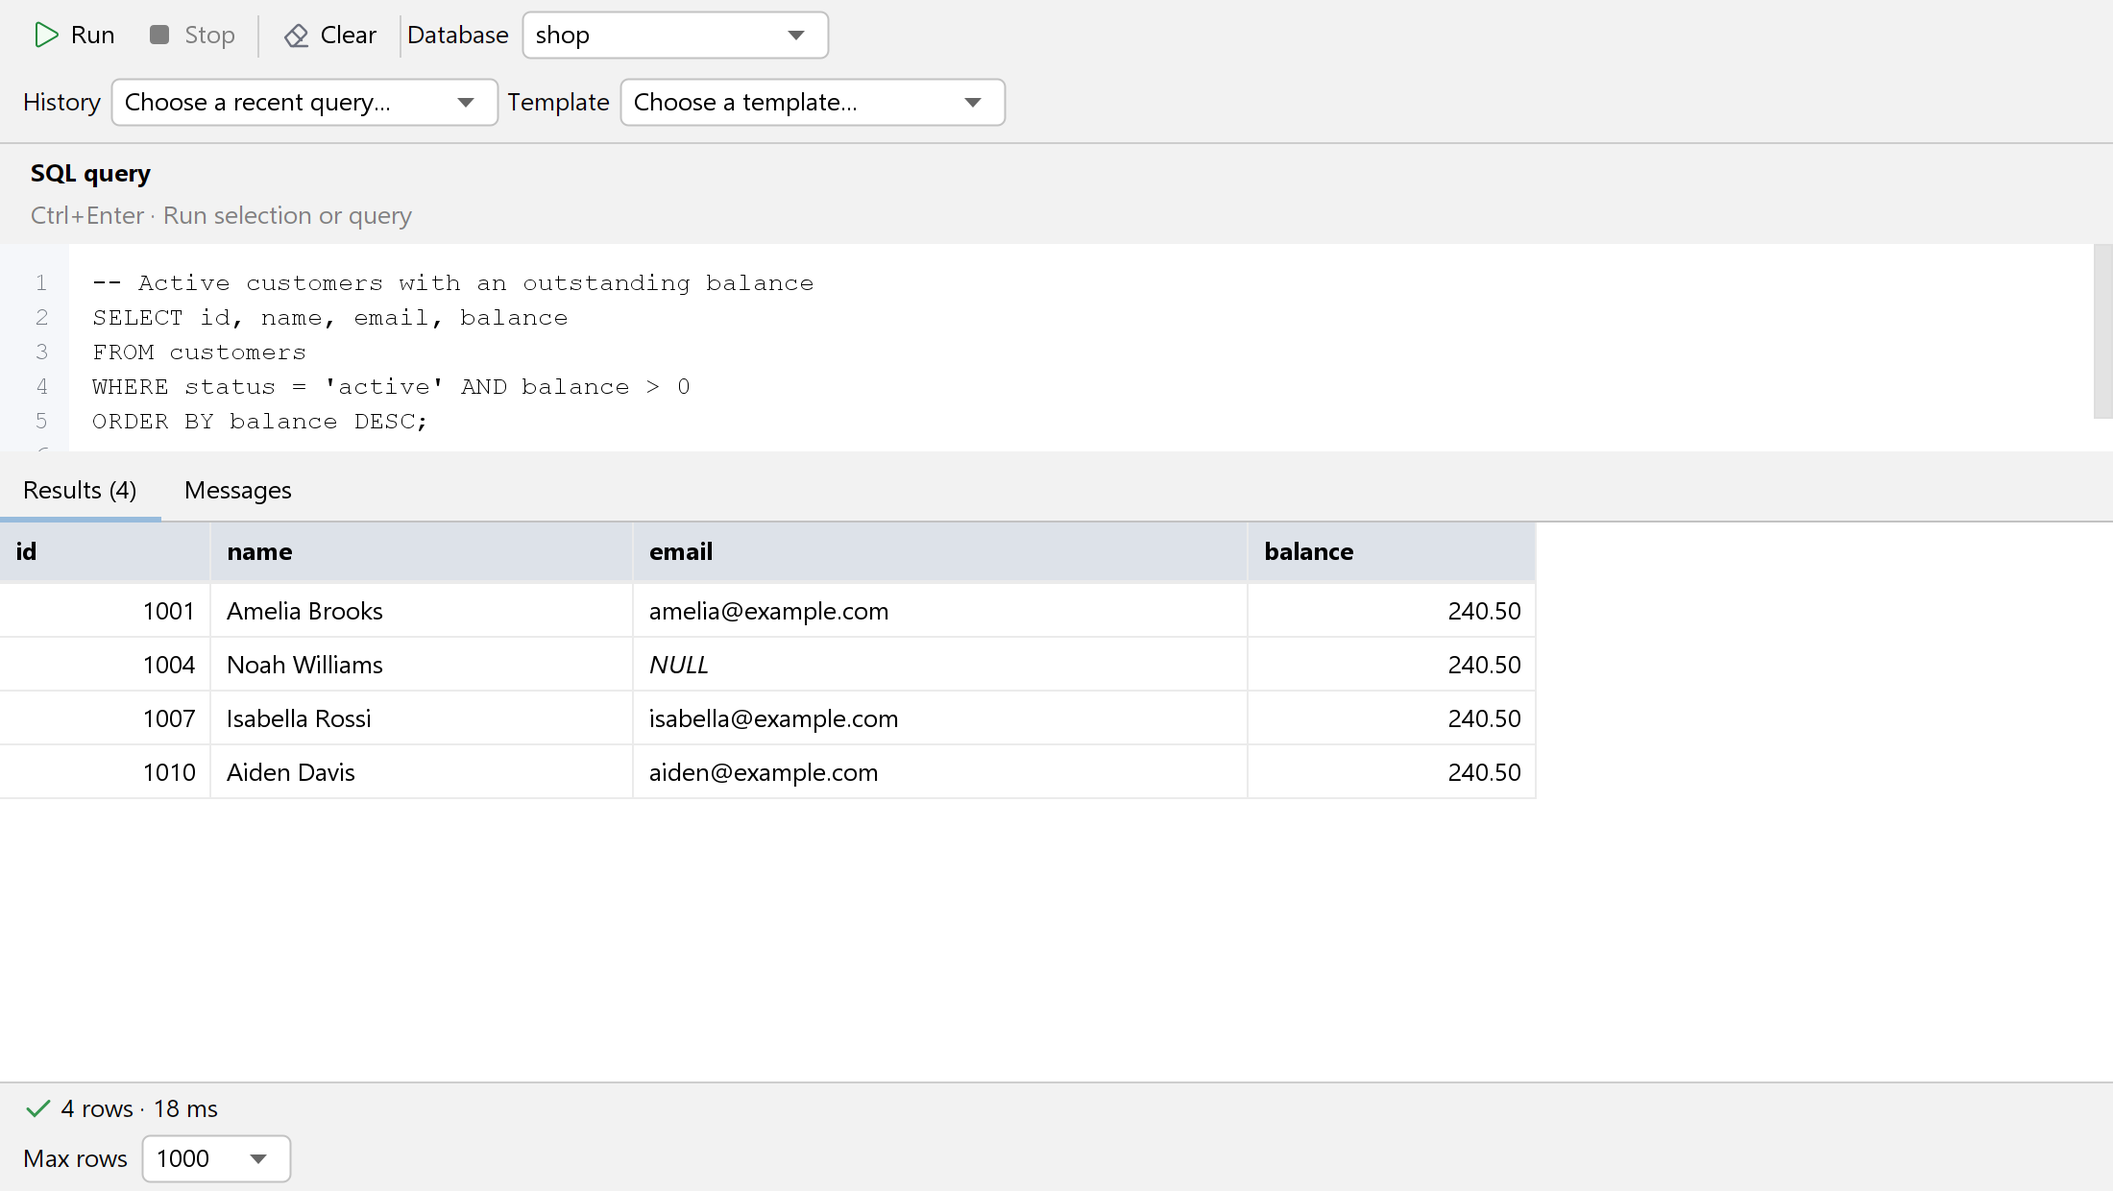
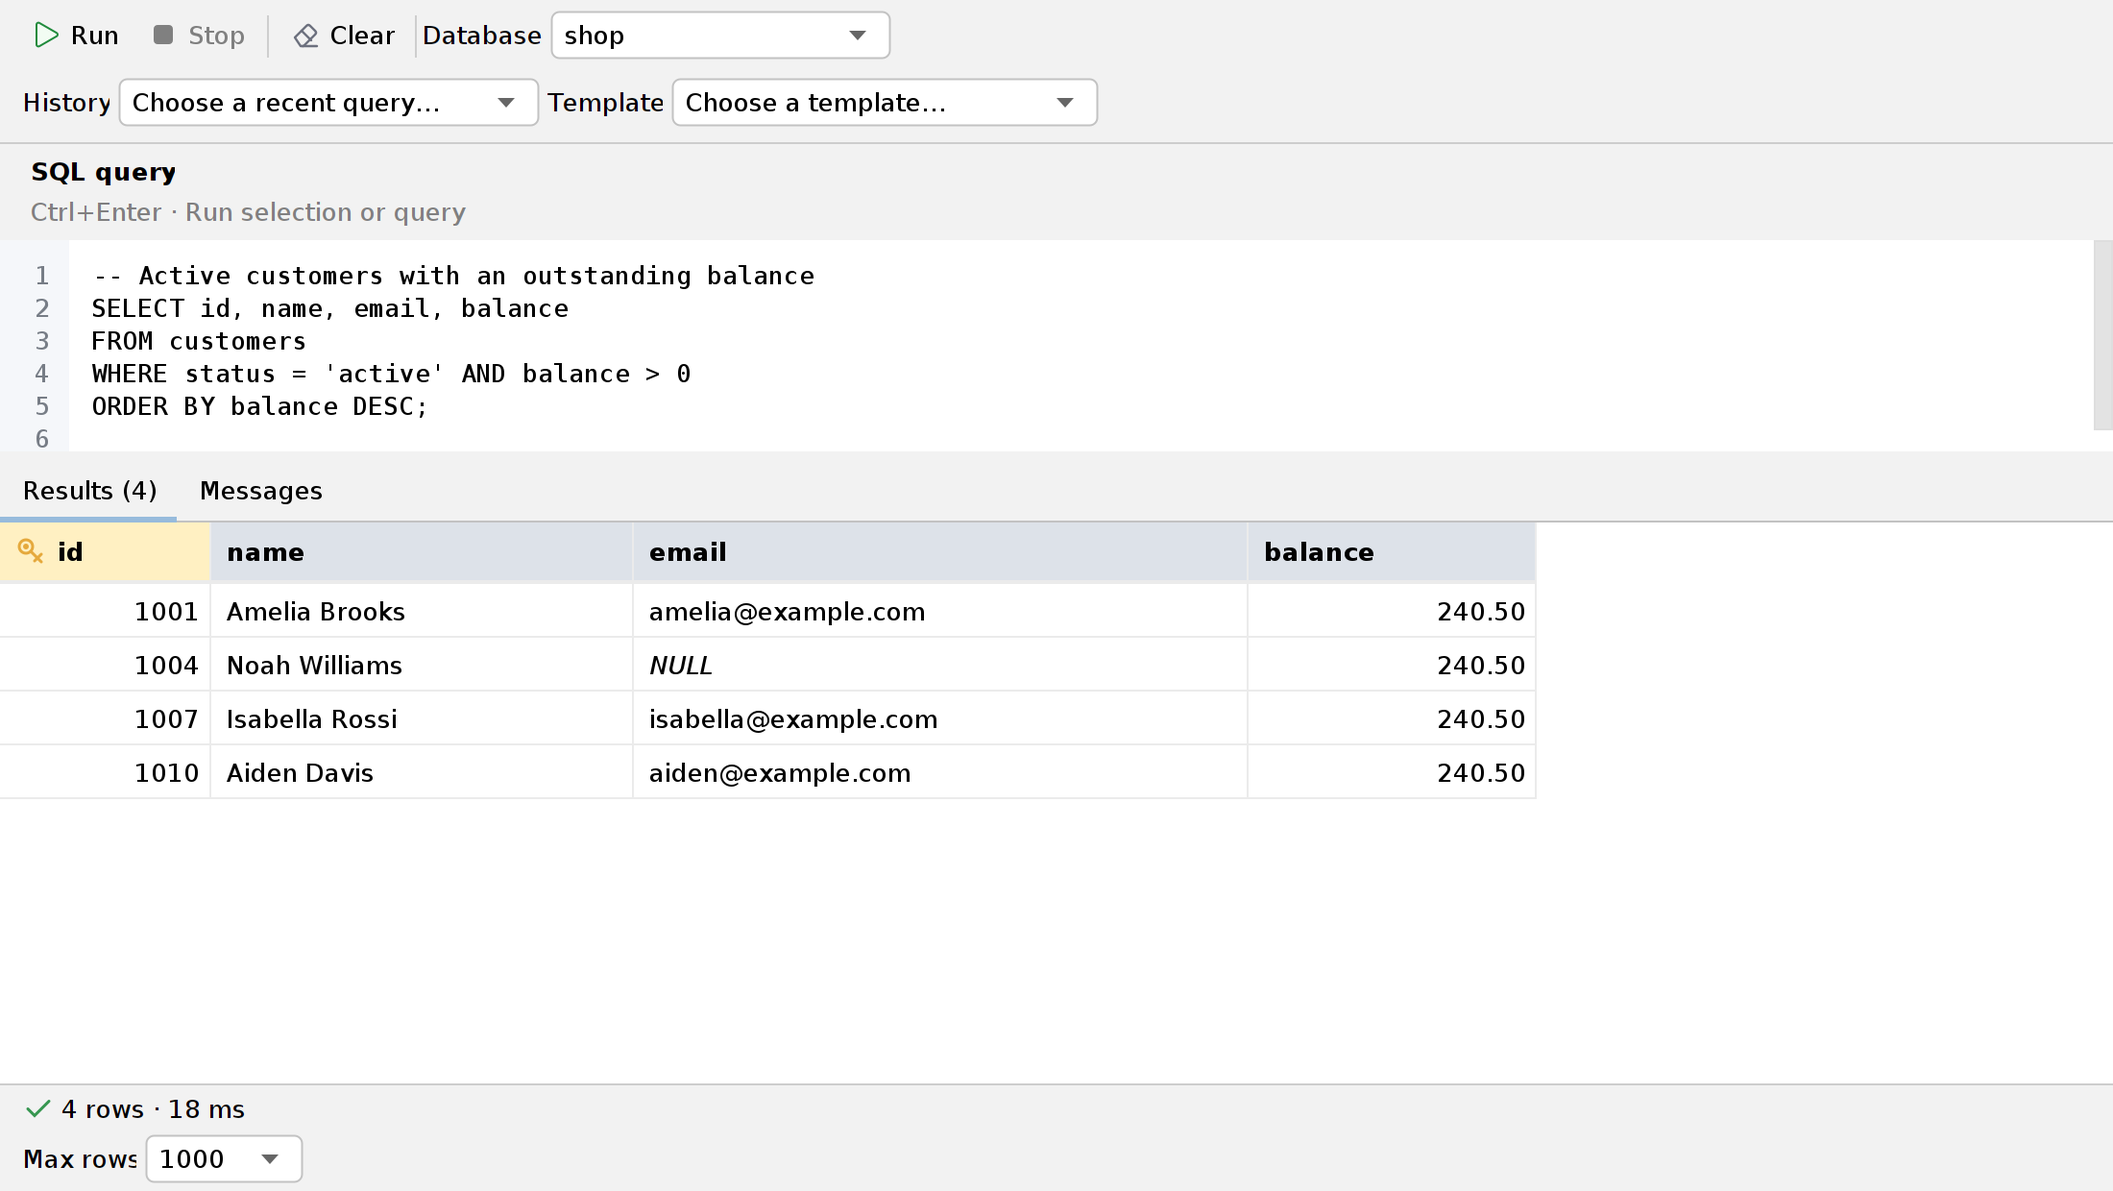
Highlight primary key headers in table and SQL result grids

diff --git a/src/main/java/com/segfault03/ideadb/service/DataService.java b/src/main/java/com/segfault03/ideadb/service/DataService.java
@@ -246,6 +246,8 @@ public class DataService {
             execution.checkCancelled();
             var provider = DatabaseProviders.forConnection(conn);
             provider.beforeQuery(conn, dbName, sql);
+            List<ResultColumn> origins = new ArrayList<>();
+            QueryResult result;
             try (Statement stmt = conn.createStatement()) {
                 stmt.setQueryTimeout(options.timeoutSeconds());
                 stmt.setMaxRows(options.maxRows() + 1);
@@ -260,7 +262,11 @@ public class DataService {
                     ResultSetMetaData md = rs.getMetaData();
                     int colCount = md.getColumnCount();
                     List<String> cols = new ArrayList<>(), types = new ArrayList<>();
-                    for (int i=1;i<=colCount;i++) { cols.add(md.getColumnLabel(i)); types.add(md.getColumnTypeName(i)); }
+                    for (int i=1;i<=colCount;i++) {
+                        cols.add(md.getColumnLabel(i)); types.add(md.getColumnTypeName(i));
+                        try { origins.add(new ResultColumn(md.getCatalogName(i), md.getSchemaName(i), md.getTableName(i), md.getColumnName(i))); }
+                        catch (SQLException unsupported) { origins.add(new ResultColumn(null, null, null, null)); }
+                    }
                     List<List<Object>> rows = new ArrayList<>();
                     long bytes = 0;
                     boolean truncated = false;
@@ -275,15 +281,44 @@ public class DataService {
                         if (bytes > 16L * 1024 * 1024) { truncated=true; break; }
                         rows.add(row);
                     }
-                    return QueryResult.forResultSet(cols,types,rows,elapsed(start),truncated).withInsertPolicy(java.util.Set.of(),provider.insertOverride(conn));
+                    result = QueryResult.forResultSet(cols,types,rows,elapsed(start),truncated).withInsertPolicy(java.util.Set.of(),provider.insertOverride(conn));
                 }
             }
+            // Close streaming result sets before metadata queries on the same connection.
+            execution.checkCancelled();
+            result = result.withPrimaryKeyColumns(primaryKeyColumns(conn, origins));
+            execution.checkCancelled();
+            return result;
         } catch (Exception error) {
             if (execution.isCancellationRequested()) return QueryResult.forCancellation(elapsed(start));
             String message = error.getMessage();
             return QueryResult.forError(message == null || message.isEmpty() ? error.toString() : message, elapsed(start));
         } finally { execution.detach(); }
     }
+    record ResultColumn(String catalog, String schema, String table, String name) {}
+    private record ResultTable(String catalog, String schema, String name) {}
+
+    static java.util.Set<Integer> primaryKeyColumns(Connection connection, List<ResultColumn> columns) {
+        Map<ResultTable, java.util.Set<String>> keysByTable = new java.util.HashMap<>();
+        java.util.Set<Integer> indices = new java.util.HashSet<>();
+        for (int index = 0; index < columns.size(); index++) {
+            ResultColumn column = columns.get(index);
+            if (column.table() == null || column.table().isBlank() || column.name() == null) continue;
+            ResultTable table = new ResultTable(column.catalog(), column.schema(), column.table());
+            java.util.Set<String> keys = keysByTable.get(table);
+            if (keys == null) {
+                keys = new java.util.HashSet<>();
+                // Metadata is optional: permissions or unsupported drivers must not fail a successful query.
+                try (ResultSet metadata = connection.getMetaData().getPrimaryKeys(table.catalog(), table.schema(), table.name())) {
+                    if (metadata != null) while (metadata.next()) keys.add(metadata.getString("COLUMN_NAME"));
+                } catch (SQLException unavailable) { }
+                keysByTable.put(table, keys);
+            }
+            if (keys.contains(column.name())) indices.add(index);
+        }
+        return java.util.Set.copyOf(indices);
+    }
+
     private static long elapsed(long start) { return (System.nanoTime()-start)/1_000_000; }
 
     /** LOBs must remain usable after the ResultSet and Statement have been closed. */

diff --git a/src/test/java/com/segfault03/ideadb/service/QueryPrimaryKeyTest.java b/src/test/java/com/segfault03/ideadb/service/QueryPrimaryKeyTest.java
@@ -1,0 +1,46 @@
+package com.segfault03.ideadb.service;
+
+import com.segfault03.ideadb.model.ReadOnlyResultModel;
+import org.junit.jupiter.api.Test;
+import java.sql.*;
+import java.util.List;
+import java.util.Set;
+import static org.junit.jupiter.api.Assertions.*;
+
+class QueryPrimaryKeyTest {
+    @Test void resultKeysFollowSourceColumnsAcrossAliasesJoinsAndCompositeKeys() throws Exception {
+        java.util.Properties credentials = new java.util.Properties();
+        credentials.setProperty("user", "SA");
+        credentials.setProperty("password", "");
+        try (Connection connection = new org.hsqldb.jdbc.JDBCDriver().connect("jdbc:hsqldb:mem:query_keys;shutdown=true", credentials)) {
+            try (Statement statement = connection.createStatement()) {
+                statement.execute("CREATE TABLE KEYED (TENANT INT, ID INT, PRIMARY KEY(TENANT, ID))");
+                statement.execute("CREATE TABLE UNKEYED (ID INT)");
+                statement.execute("INSERT INTO KEYED VALUES(1, 7)");
+                statement.execute("INSERT INTO UNKEYED VALUES(7)");
+            }
+            var result = DataService.getInstance().executeQuery(connection, "PUBLIC",
+                    "SELECT A.TENANT AS DISPLAY, A.ID AS DISPLAY, B.ID AS DISPLAY, A.TENANT + 1 AS CALCULATED "
+                            + "FROM KEYED A JOIN UNKEYED B ON A.ID = B.ID");
+            assertFalse(result.hasError(), result.getError());
+            assertEquals(Set.of(0, 1), result.getPrimaryKeyColumns());
+            assertEquals(List.of("DISPLAY", "DISPLAY", "DISPLAY", "CALCULATED"), result.getColumnNames());
+            assertEquals(Set.of(0, 1), result.withInsertPolicy(Set.of("ID"), "").getPrimaryKeyColumns());
+            ReadOnlyResultModel model = new ReadOnlyResultModel();
+            model.setResult(result);
+            assertTrue(model.isPrimaryKeyColumn(0));
+            assertTrue(model.isPrimaryKeyColumn(1));
+            assertFalse(model.isPrimaryKeyColumn(2));
+            model.setResult(DataService.getInstance().executeQuery(connection, "PUBLIC", "SELECT ID FROM UNKEYED"));
+            assertFalse(model.isPrimaryKeyColumn(0), "A later unkeyed query must clear key highlighting");
+        }
+    }
+
+    @Test void unavailableKeyMetadataDoesNotPreventDisplayingResults() {
+        Connection unsupported = (Connection) java.lang.reflect.Proxy.newProxyInstance(
+                Connection.class.getClassLoader(), new Class<?>[]{Connection.class},
+                (proxy, method, arguments) -> { throw new SQLFeatureNotSupportedException("No metadata"); });
+        assertEquals(Set.of(), DataService.primaryKeyColumns(unsupported,
+                List.of(new DataService.ResultColumn(null, "PUBLIC", "KEYED", "ID"))));
+    }
+}

diff --git a/src/test/java/com/segfault03/ideadb/ui/DatabaseTableTest.java b/src/test/java/com/segfault03/ideadb/ui/DatabaseTableTest.java
@@ -10,6 +10,39 @@ import java.awt.image.BufferedImage;
 import static org.junit.jupiter.api.Assertions.*;
 
 class DatabaseTableTest {
+    @Test void primaryKeyHeadersHaveDistinctPaintedColorsAndFollowModelColumnIndices() throws Exception {
+        SwingUtilities.invokeAndWait(() -> {
+            var model = new com.segfault03.ideadb.model.ReadOnlyResultModel();
+            model.setResult(com.segfault03.ideadb.model.QueryResult.forResultSet(
+                    java.util.List.of("tenant", "id", "name"), java.util.List.of("INT", "INT", "VARCHAR"),
+                    java.util.List.of(), 0).withPrimaryKeyColumns(java.util.Set.of(0, 1)));
+            DatabaseTable table = new DatabaseTable(model);
+            for (Color surface : new Color[]{Color.WHITE, new Color(0x2B2D30)}) {
+                table.setBackground(surface);
+                table.setForeground(surface.equals(Color.WHITE) ? Color.BLACK : Color.WHITE);
+                var header = table.getTableHeader();
+                header.setUI(new com.intellij.ide.ui.laf.darcula.DarculaTableHeaderUI());
+                for (var column : java.util.Collections.list(table.getColumnModel().getColumns())) column.setWidth(100);
+                header.setSize(300, header.getPreferredSize().height);
+                BufferedImage image = new BufferedImage(300, header.getHeight(), BufferedImage.TYPE_INT_RGB);
+                Graphics graphics = image.createGraphics();
+                graphics.setClip(0, 0, 300, header.getHeight());
+                header.paint(graphics);
+                graphics.dispose();
+                assertEquals(image.getRGB(5, 3), image.getRGB(105, 3), "Both composite-key headers use the accent");
+                assertNotEquals(image.getRGB(5, 3), image.getRGB(205, 3), "Keys differ visibly from ordinary headers");
+                var renderer = header.getDefaultRenderer();
+                JLabel label = (JLabel) renderer.getTableCellRendererComponent(table, "name", false, false, -1, 2);
+                assertNull(label.getIcon(), "A recycled renderer must clear the key icon");
+                assertEquals(header.getBackground(), label.getBackground());
+            }
+            table.getColumnModel().moveColumn(2, 0);
+            JLabel label = (JLabel) table.getTableHeader().getDefaultRenderer()
+                    .getTableCellRendererComponent(table, "name", false, false, -1, 0);
+            assertNull(label.getIcon(), "Highlighting follows model indices when columns move");
+        });
+    }
+
     @Test void columnWidthsUseRenderedContentAndCapLongValues() throws Exception {
         SwingUtilities.invokeAndWait(() -> {
             DatabaseTable table = new DatabaseTable(new DefaultTableModel(

diff --git a/scripts/ui-preview/UiPreview.java b/scripts/ui-preview/UiPreview.java
@@ -388,7 +388,7 @@ public final class UiPreview {
         invoke(panel, "setReadRunning", new Class<?>[]{boolean.class}, false);
         JTable table = (JTable) field(panel, "dataTable");
         ((JScrollPane)table.getParent().getParent()).setColumnHeaderView(table.getTableHeader());
-        int[] widths = {110, 190, 280, 150, 150};
+        int[] widths = {148, 190, 280, 150, 150};
         for (int i = 0; i < widths.length; i++) table.getColumnModel().getColumn(i).setPreferredWidth(widths[i]);
         ((JButton) field(panel, "nextPageBtn")).setEnabled(false);
         ((JLabel) field(panel, "statusLabel")).setText("12 rows · 18 ms · Total: not counted");
@@ -397,13 +397,19 @@ public final class UiPreview {
     static SqlQueryConsolePanel console() throws Exception {
         SqlQueryConsolePanel panel = new SqlQueryConsolePanel(null, config(DatabaseType.MYSQL), "shop", List.of("shop", "analytics"));
         panel.setSqlText("-- Active customers with an outstanding balance\nSELECT id, name, email, balance\nFROM customers\nWHERE status = 'active' AND balance > 0\nORDER BY balance DESC;\n");
-        DefaultTableModel model = (DefaultTableModel)field(panel, "resultsModel");
+        com.segfault03.ideadb.model.ReadOnlyResultModel model = (com.segfault03.ideadb.model.ReadOnlyResultModel)field(panel, "resultsModel");
         model.setDataVector(new Object[][]{
                 {1001L, "Amelia Brooks", "amelia@example.com", new java.math.BigDecimal("240.50")},
                 {1004L, "Noah Williams", null, new java.math.BigDecimal("240.50")},
                 {1007L, "Isabella Rossi", "isabella@example.com", new java.math.BigDecimal("240.50")},
                 {1010L, "Aiden Davis", "aiden@example.com", new java.math.BigDecimal("240.50")}
         }, new Object[]{"id", "name", "email", "balance"});
+        model.setResult(QueryResult.forResultSet(List.of("id", "name", "email", "balance"),
+                List.of("BIGINT", "VARCHAR", "VARCHAR", "DECIMAL"),
+                java.util.stream.IntStream.range(0, model.getRowCount())
+                        .mapToObj(row -> java.util.stream.IntStream.range(0, model.getColumnCount())
+                                .mapToObj(column -> model.getValueAt(row, column)).toList()).toList(), 18)
+                .withPrimaryKeyColumns(Set.of(0)));
         JTable table = (JTable)field(panel, "resultsTable");
         ((JScrollPane)table.getParent().getParent()).setColumnHeaderView(table.getTableHeader());
         int[] widths = {110, 220, 320, 150};

diff --git a/src/main/java/com/segfault03/ideadb/ui/DatabaseTable.java b/src/main/java/com/segfault03/ideadb/ui/DatabaseTable.java
@@ -102,7 +102,14 @@ public final class DatabaseTable extends JBTable {
         @Override public Component getTableCellRendererComponent(JTable table, Object value, boolean selected,
                                                                  boolean focus, int row, int column) {
             super.getTableCellRendererComponent(table, value, selected, focus, row, column);
-            setBackground(table.getTableHeader().getBackground());
+            boolean primaryKey = table.getModel() instanceof com.segfault03.ideadb.model.PrimaryKeyTableModel keys
+                    && keys.isPrimaryKeyColumn(table.convertColumnIndexToModel(column));
+            Color normal = table.getTableHeader().getBackground();
+            boolean light = normal.getRed() + normal.getGreen() + normal.getBlue() > 384;
+            setBackground(primaryKey ? new Color(light ? 0xFFF0C2 : 0x544525) : normal);
+            setIcon(primaryKey ? Icons.KEY : null);
+            setIconTextGap(JBUI.scale(6));
+            getAccessibleContext().setAccessibleDescription(primaryKey ? "Primary key column" : null);
             setForeground(table.getForeground());
             setFont(table.getFont().deriveFont(Font.BOLD));
             setHorizontalAlignment(SwingConstants.LEFT);

diff --git a/src/main/java/com/segfault03/ideadb/model/QueryResult.java b/src/main/java/com/segfault03/ideadb/model/QueryResult.java
@@ -16,9 +16,17 @@ public class QueryResult {
     private final boolean cancelled;
     private boolean truncated;
     private java.util.Set<String> omittedInsertColumns = java.util.Set.of();
+    private java.util.Set<Integer> primaryKeyColumns = java.util.Set.of();
+    public java.util.Set<Integer> getPrimaryKeyColumns() { return primaryKeyColumns; }
+    public QueryResult withPrimaryKeyColumns(java.util.Set<Integer> columns) {
+        QueryResult copy = withInsertPolicy(omittedInsertColumns, insertOverride);
+        copy.primaryKeyColumns = java.util.Set.copyOf(columns);
+        return copy;
+    }
     private String insertOverride = "";
     public QueryResult withInsertPolicy(java.util.Set<String> omitted, String override) {
         QueryResult copy = new QueryResult(resultSet,columnNames,columnTypes,rows,affectedRows,executionTimeMs,message,error,cancelled);
+        copy.primaryKeyColumns = primaryKeyColumns;
         copy.truncated = truncated; copy.omittedInsertColumns = java.util.Set.copyOf(omitted); copy.insertOverride = override;
         return copy;
     }

diff --git a/src/main/java/com/segfault03/ideadb/model/ReadOnlyResultModel.java b/src/main/java/com/segfault03/ideadb/model/ReadOnlyResultModel.java
@@ -3,6 +3,21 @@ package com.segfault03.ideadb.model;
 import javax.swing.table.DefaultTableModel;
 
 /** Arbitrary query results have no reliable row identity or write path. */
-public final class ReadOnlyResultModel extends DefaultTableModel {
+public final class ReadOnlyResultModel extends DefaultTableModel implements PrimaryKeyTableModel {
+    private java.util.Set<Integer> primaryKeyColumns = java.util.Set.of();
+
+    public void setResult(QueryResult result) {
+        primaryKeyColumns = result.getPrimaryKeyColumns();
+        super.setDataVector(result.getRows().stream().map(java.util.List::toArray).toArray(Object[][]::new),
+                result.getColumnNames().toArray());
+    }
+
+    @Override public void setDataVector(Object[][] rows, Object[] columns) {
+        primaryKeyColumns = java.util.Set.of();
+        super.setDataVector(rows, columns);
+    }
+
+    @Override public boolean isPrimaryKeyColumn(int column) { return primaryKeyColumns.contains(column); }
+
     @Override public boolean isCellEditable(int row,int column) { return false; }
 }

diff --git a/src/main/java/com/segfault03/ideadb/ui/SqlQueryConsolePanel.java b/src/main/java/com/segfault03/ideadb/ui/SqlQueryConsolePanel.java
@@ -48,7 +48,7 @@ public class SqlQueryConsolePanel extends JPanel implements AutoCloseable {
     private JComboBox<QueryHistoryEntry> historyCombo;
     private JTabbedPane resultsTabs;
     private DatabaseTable resultsTable;
-    private DefaultTableModel resultsModel;
+    private ReadOnlyResultModel resultsModel;
     private JBTextArea messagesArea;
     private JBLabel statusLabel;
 
@@ -303,8 +303,7 @@ public class SqlQueryConsolePanel extends JPanel implements AutoCloseable {
                         messagesArea.setForeground(NORMAL_MSG_COLOR);
 
                         // Populate results table
-                        Object[][] values = result.getRows().stream().map(List::toArray).toArray(Object[][]::new);
-                        resultsModel.setDataVector(values, result.getColumnNames().toArray());
+                        resultsModel.setResult(result);
 
                         resultsTable.sizeColumnsToContent();
 

diff --git a/src/main/java/com/segfault03/ideadb/ui/TableDataEditorPanel.java b/src/main/java/com/segfault03/ideadb/ui/TableDataEditorPanel.java
@@ -945,7 +945,12 @@ public class TableDataEditorPanel extends JPanel implements AutoCloseable {
         public int hashCode() { return Objects.hash(row, col); }
     }
 
-    private class EditableTableModel extends AbstractTableModel {
+    private class EditableTableModel extends AbstractTableModel implements com.segfault03.ideadb.model.PrimaryKeyTableModel {
+        @Override public boolean isPrimaryKeyColumn(int column) {
+            ColumnMetadata metadata = getColumnMeta(column);
+            return metadata != null && metadata.isPrimaryKey();
+        }
+
         private List<String> columns = new ArrayList<>();
         private List<String> types = new ArrayList<>();
         private List<ColumnMetadata> columnMetaList = new ArrayList<>();

diff --git a/src/main/java/com/segfault03/ideadb/model/PrimaryKeyTableModel.java b/src/main/java/com/segfault03/ideadb/model/PrimaryKeyTableModel.java
@@ -1,0 +1,6 @@
+package com.segfault03.ideadb.model;
+
+/** Key membership uses model column indices, so aliases and reordered columns remain unambiguous. */
+public interface PrimaryKeyTableModel {
+    boolean isPrimaryKeyColumn(int column);
+}
